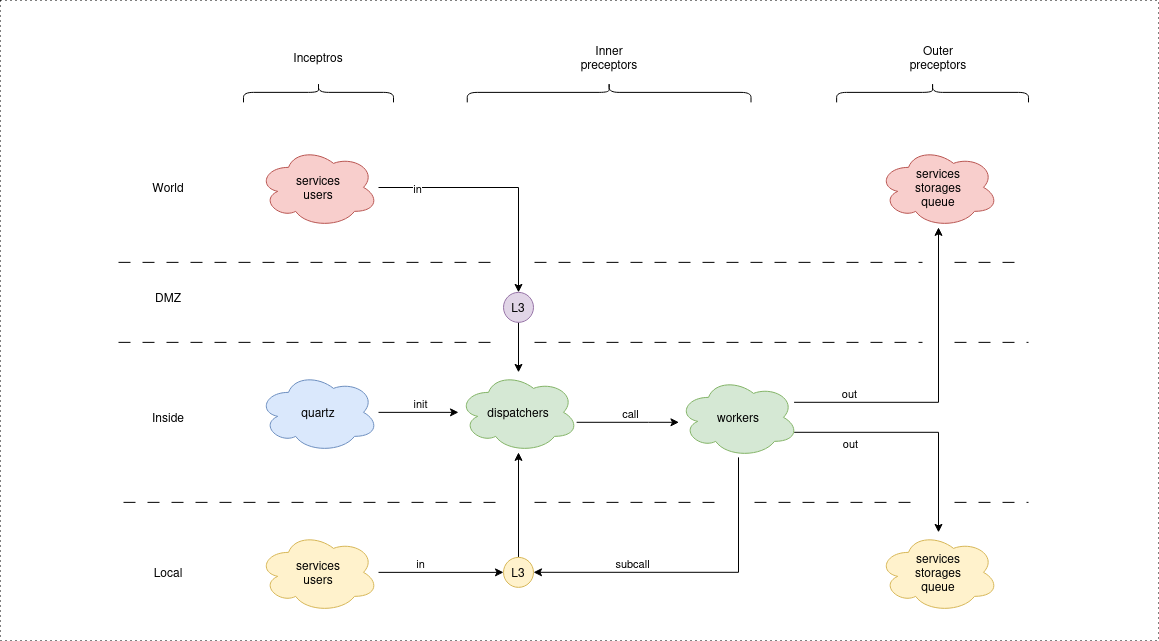
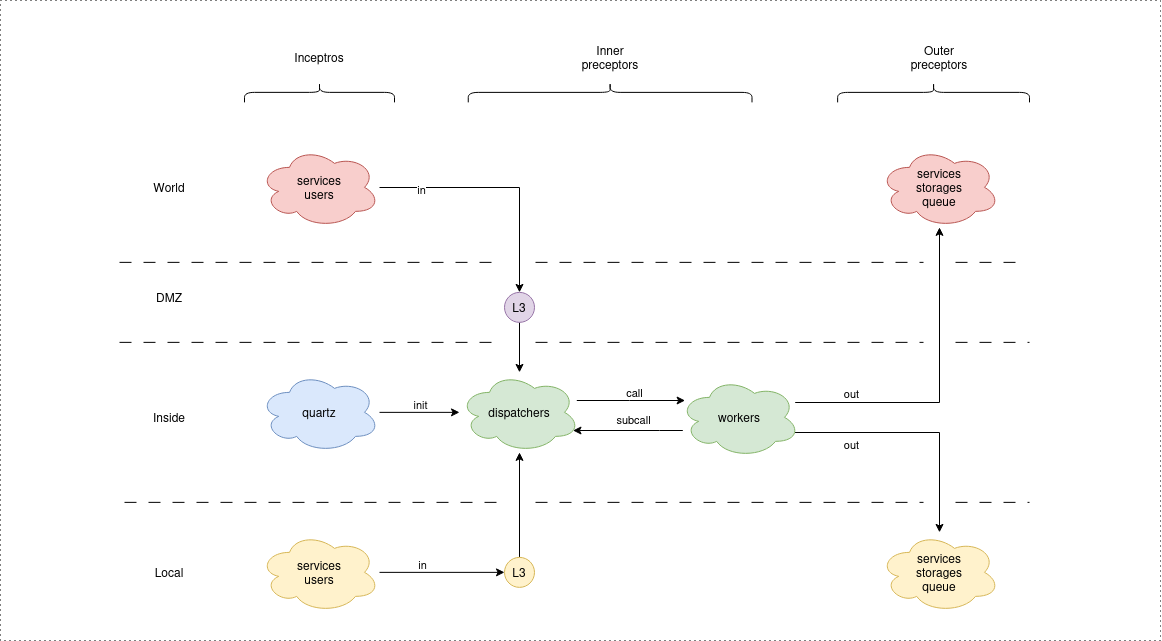
Auto commit

diff --git a/ru/nn-compare.md b/ru/nn-compare.md
@@ -5,8 +5,6 @@
 | vLLM      | Нет                      |
 | SGLang    | Да                       |
 
-
-
 # Использование маркой фрэймворка
 
 |  Марка/Фреймворк> | PyTorch   | vLLM  | SGLang    | Пропр |
@@ -18,8 +16,6 @@
 | DeepSeek          | Да        | Да    | Да        | Нет   |
 | Qwen              | Да        | Да    | Да        | Нет   |
 | GigaChat          | ?         | ?     | ?         | Да    |
-
-
 
 # Детерминированность на основе фэймворка
 
@@ -33,9 +29,8 @@
 | Qwen              | Нет       | Нет   | Да        | ?     | Да    |
 | GigaChat          | ?         | ?     | ?         | ?     | ?     |
 
-
-
 # Пример 
 
 1. Установка флага `--enable-deterministic-inference` переводит `SGLang` см 
 [документацию](https://docs.sglang.io/advanced_features/deterministic_inference.html).
+что

diff --git a/ru/nn-check.md b/ru/nn-check.md
@@ -183,6 +183,12 @@ D1 ≠ D2, D1 ∪ D2 ≠ T
 системная ошибка обобщения, а не подтверждение истинного значения.
 
 
+# О терминах
+
+Сам по себе термин "проверка" подразумевает сравнени с истиной. Но ни одна
+сеть таковой быть не может. Мы можем говорить только о допустимости уточнения.
+
+
 
 # Вывод
 